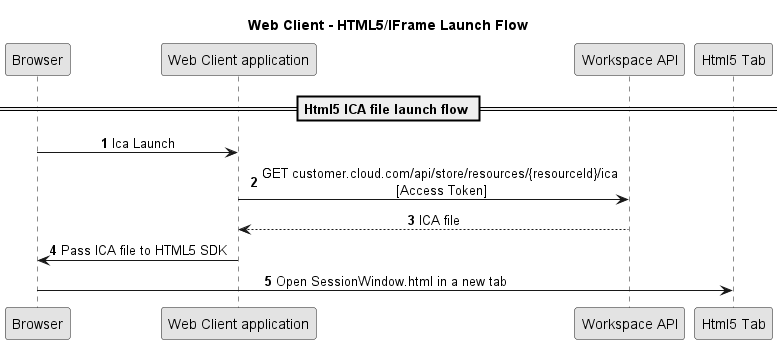
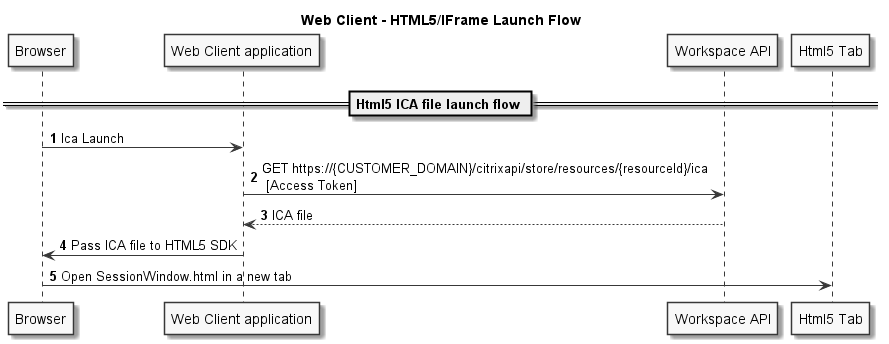
Updating Unified Workspace API path from /api to /citrixapi (#4)
* Updating Unified Workspace API path from /api to /citrixapi

* Fixing broken readme image link

* Updating copyright

* Updating readme

* Removing unnecessary code

diff --git a/Citrix.Unified.Api.Test.WebClient/Discovery/DiscoveryClient.cs b/Citrix.Unified.Api.Test.WebClient/Discovery/DiscoveryClient.cs
@@ -1,5 +1,5 @@
 /*
-* Copyright © 2023. Cloud Software Group, Inc.
+* Copyright © 2025. Cloud Software Group, Inc.
 * This file is subject to the license terms contained
 * in the license file that is distributed with this file.
 */
@@ -32,7 +32,7 @@ public class DiscoveryClient
 
             var uri = new UriBuilder(customerDomain)
             {
-                Path = $"/api/discovery/configurations",
+                Path = $"/citrixapi/discovery/configurations",
                 Scheme = "https" ,
                 Port = 443
             }.Uri;

diff --git a/Citrix.Unified.Api.Test.WebClient/CitrixHttpMessageHandler.cs b/Citrix.Unified.Api.Test.WebClient/CitrixHttpMessageHandler.cs
@@ -1,5 +1,5 @@
 /*
-* Copyright © 2023. Cloud Software Group, Inc.
+* Copyright © 2025. Cloud Software Group, Inc.
 * This file is subject to the license terms contained
 * in the license file that is distributed with this file.
 */

diff --git a/Citrix.Unified.Api.Test.WebClient/CitrixOidc/CitrixAuthExtensions.cs b/Citrix.Unified.Api.Test.WebClient/CitrixOidc/CitrixAuthExtensions.cs
@@ -1,5 +1,5 @@
 /*
-* Copyright © 2023. Cloud Software Group, Inc.
+* Copyright © 2025. Cloud Software Group, Inc.
 * This file is subject to the license terms contained
 * in the license file that is distributed with this file.
 */

diff --git a/Citrix.Unified.Api.Test.WebClient/CitrixOidc/CitrixOpenIdConnectEvents.cs b/Citrix.Unified.Api.Test.WebClient/CitrixOidc/CitrixOpenIdConnectEvents.cs
@@ -1,5 +1,5 @@
 /*
-* Copyright © 2023. Cloud Software Group, Inc.
+* Copyright © 2025. Cloud Software Group, Inc.
 * This file is subject to the license terms contained
 * in the license file that is distributed with this file.
 */

diff --git a/Citrix.Unified.Api.Test.WebClient/CitrixOidc/OidcSettings.cs b/Citrix.Unified.Api.Test.WebClient/CitrixOidc/OidcSettings.cs
@@ -1,5 +1,5 @@
 /*
-* Copyright © 2023. Cloud Software Group, Inc.
+* Copyright © 2025. Cloud Software Group, Inc.
 * This file is subject to the license terms contained
 * in the license file that is distributed with this file.
 */

diff --git a/Citrix.Unified.Api.Test.WebClient/CitrixOidc/SessionDetails.cs b/Citrix.Unified.Api.Test.WebClient/CitrixOidc/SessionDetails.cs
@@ -1,5 +1,5 @@
 /*
-* Copyright © 2023. Cloud Software Group, Inc.
+* Copyright © 2025. Cloud Software Group, Inc.
 * This file is subject to the license terms contained
 * in the license file that is distributed with this file.
 */

diff --git a/Citrix.Unified.Api.Test.WebClient/Discovery/DiscoveryModel.cs b/Citrix.Unified.Api.Test.WebClient/Discovery/DiscoveryModel.cs
@@ -1,5 +1,5 @@
 /*
-* Copyright © 2023. Cloud Software Group, Inc.
+* Copyright © 2025. Cloud Software Group, Inc.
 * This file is subject to the license terms contained
 * in the license file that is distributed with this file.
 */

diff --git a/Citrix.Unified.Api.Test.WebClient/Pages/Error.cshtml.cs b/Citrix.Unified.Api.Test.WebClient/Pages/Error.cshtml.cs
@@ -1,5 +1,5 @@
 /*
-* Copyright © 2023. Cloud Software Group, Inc.
+* Copyright © 2025. Cloud Software Group, Inc.
 * This file is subject to the license terms contained
 * in the license file that is distributed with this file.
 */

diff --git a/Citrix.Unified.Api.Test.WebClient/Pages/Index.cshtml.cs b/Citrix.Unified.Api.Test.WebClient/Pages/Index.cshtml.cs
@@ -1,5 +1,5 @@
 /*
-* Copyright © 2023. Cloud Software Group, Inc.
+* Copyright © 2025. Cloud Software Group, Inc.
 * This file is subject to the license terms contained
 * in the license file that is distributed with this file.
 */

diff --git a/Citrix.Unified.Api.Test.WebClient/Pages/Launch.cshtml.cs b/Citrix.Unified.Api.Test.WebClient/Pages/Launch.cshtml.cs
@@ -1,5 +1,5 @@
 /*
-* Copyright © 2023. Cloud Software Group, Inc.
+* Copyright © 2025. Cloud Software Group, Inc.
 * This file is subject to the license terms contained
 * in the license file that is distributed with this file.
 */

diff --git a/Citrix.Unified.Api.Test.WebClient/Pages/SignIn.cshtml.cs b/Citrix.Unified.Api.Test.WebClient/Pages/SignIn.cshtml.cs
@@ -1,5 +1,5 @@
 /*
-* Copyright © 2023. Cloud Software Group, Inc.
+* Copyright © 2025. Cloud Software Group, Inc.
 * This file is subject to the license terms contained
 * in the license file that is distributed with this file.
 */

diff --git a/Citrix.Unified.Api.Test.WebClient/Pages/SignOut.cshtml.cs b/Citrix.Unified.Api.Test.WebClient/Pages/SignOut.cshtml.cs
@@ -1,5 +1,5 @@
 /*
-* Copyright © 2023. Cloud Software Group, Inc.
+* Copyright © 2025. Cloud Software Group, Inc.
 * This file is subject to the license terms contained
 * in the license file that is distributed with this file.
 */
